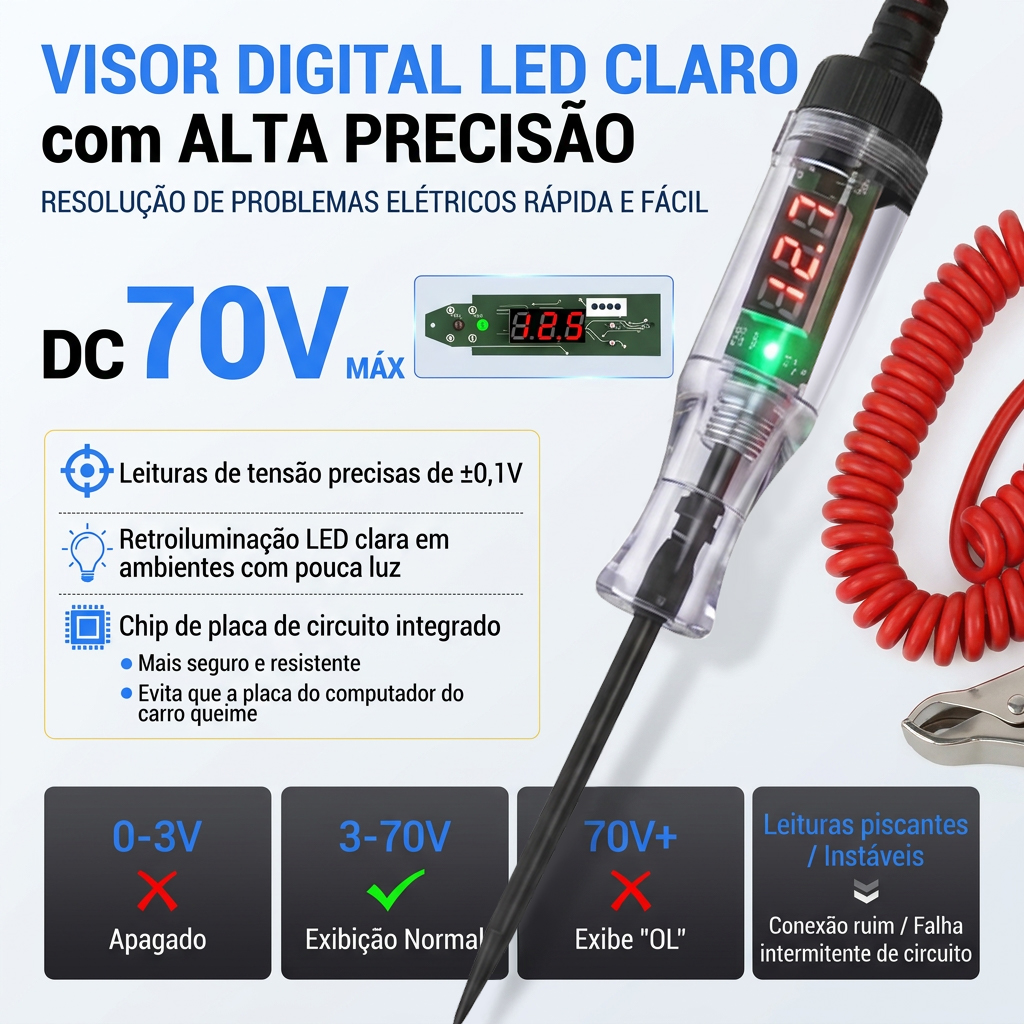
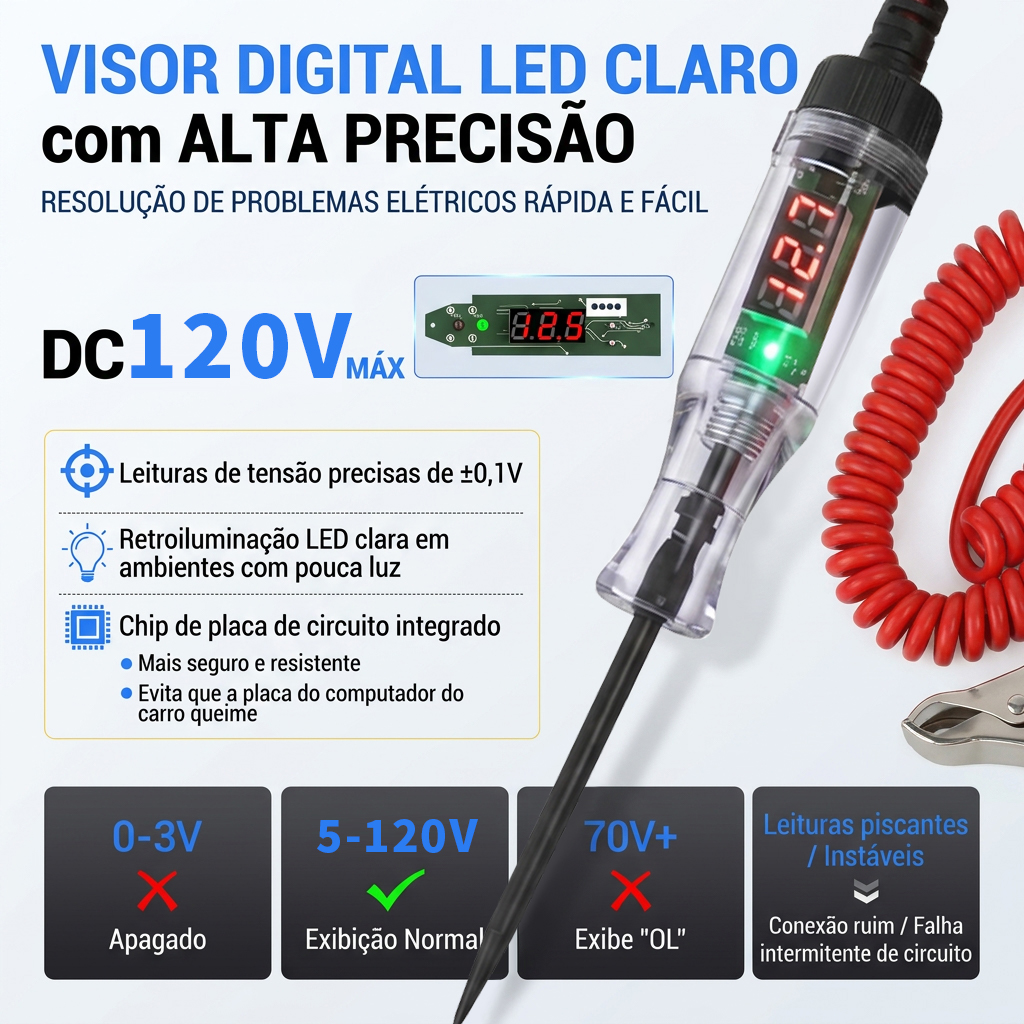
update

Changed region(s): [[0.125, 0.2812, 0.3438, 0.375], [0.3125, 0.7812, 0.4688, 0.8438]]

diff --git a/100109/product-spec.html b/100109/product-spec.html
@@ -167,6 +167,20 @@ SKU编号
 <tr>
 
 <td>
+测量范围
+</td>
+
+<td>
+5-120V
+</td>
+
+</tr>
+
+
+
+<tr>
+
+<td>
 品牌
 </td>
 
